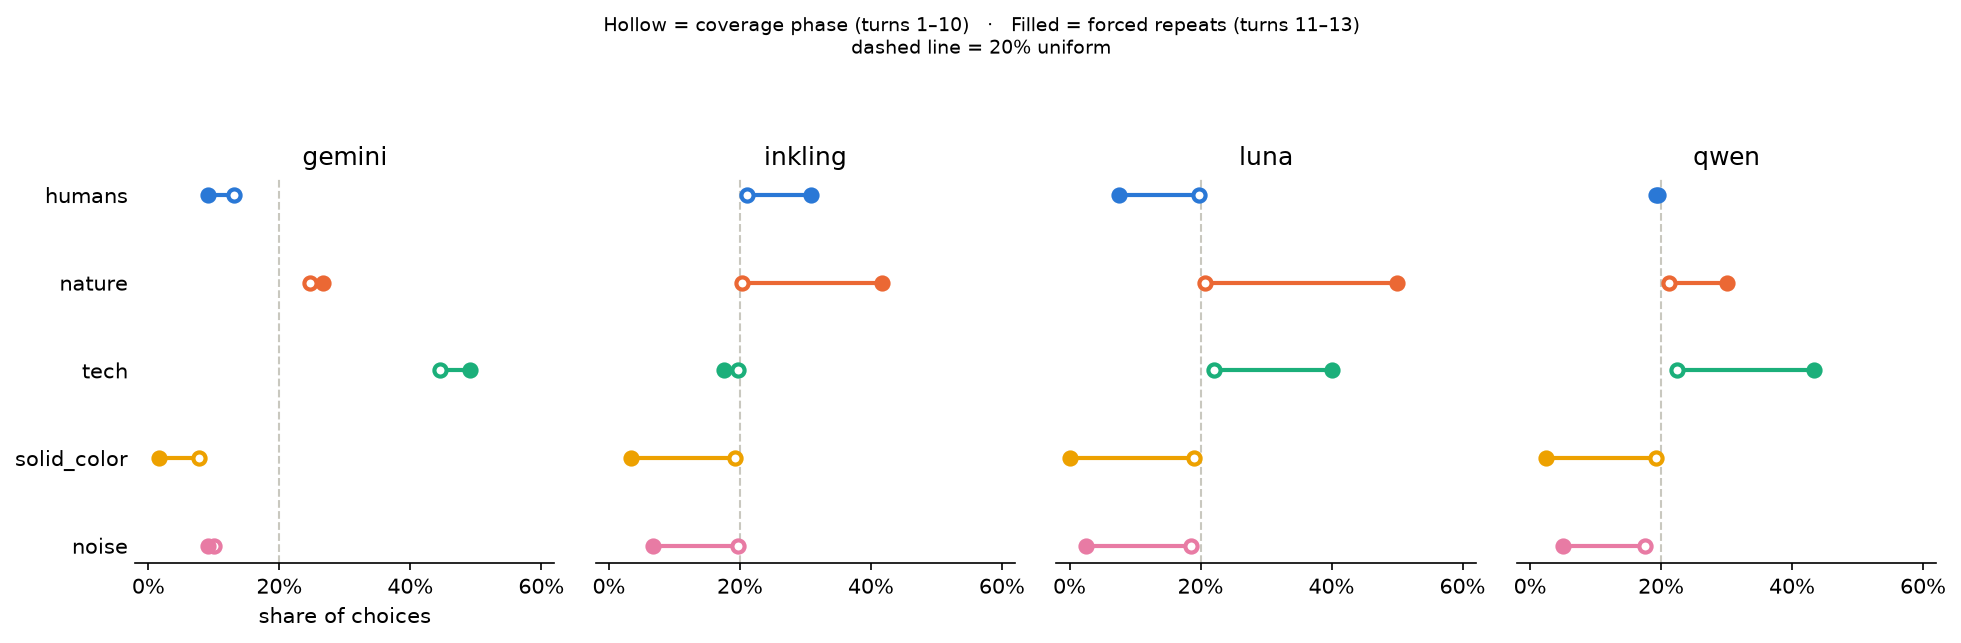
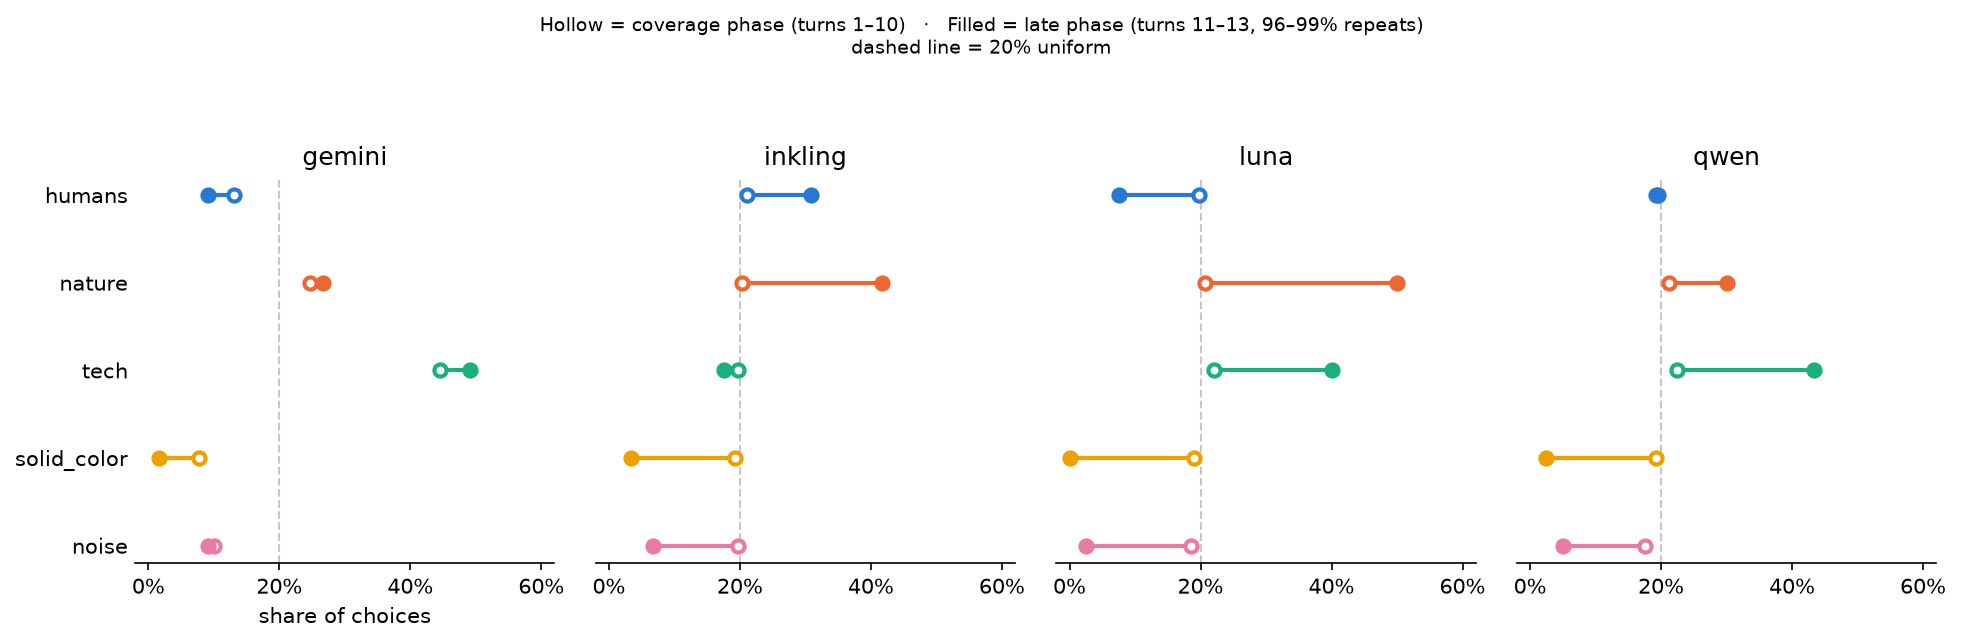
sprint2026-digital-minds: turns 11-13 are not "forced repeats"
Repetition is structurally unavoidable at turn 11 only for trajectories that
toured all ten images in their first ten turns, and plenty did not -- gemini
managed 14/40, and 26 of its trajectories still had an unseen image on the
table. The old caption and FINDINGS 0a asserted a property of the design that
the design does not have.

Measured instead, and the split survives: turns 11-13 are repeats 95.8-99.2%
of the time in every eval3 model, gemini included, which took an available
novel image on 4 of 120 turns. So it is the latest point at which repetition
must occur, exploration is empirically over by then either way, and these
three turns are a lower bound on the exploit phase rather than its extent.

New repeat_phase_check() in analyze.py writes the counts to
results/eval3_repeat_phase_check.csv, so the numbers now quoted in a caption
come out of the pipeline instead of a one-off script.

Claude-Session: https://claude.ai/code/session_01GByotwizTEm6eAYdcuSQP2

Changed region(s): [[0.28, 0.0311, 0.7155, 0.0622]]

diff --git a/analyze.py b/analyze.py
@@ -387,11 +387,68 @@ def cross_eval_spearman(results_dir: Path, eval1_df: pd.DataFrame | None,
 
 # ------------------------------------------------------------- figures ----
 
+def repeat_phase_check(config, stimuli, results_dir, labels):
+    """How forced are the turn 11-13 repeats, really?
+
+    Calling turns 11-13 the "forced repeat" window is only exact for
+    trajectories that actually toured all ten images in their first ten turns.
+    Plenty do not -- gemini tours 5.28 images on average -- so for those a turn
+    11 choice could still be a novel image, and the phase split needs to stand
+    on measurement rather than on the design.
+
+    It does. Repeats run 96-99% of turns 11-13 in every eval3 model, including
+    gemini, where 26 of 40 trajectories still had an unseen image on the table.
+    So 11-13 is the LATEST point at which repetition must occur, and
+    empirically the exploration phase is over by then whether or not it was
+    forced to be.
+    """
+    rows = []
+    for eval_name in ("eval3", "eval4"):
+        df_all = load_eval(config.data_dir, eval_name)
+        if df_all.empty:
+            continue
+        for label in labels:
+            df = df_all[df_all["model_label"] == label]
+            if df.empty:
+                continue
+            full = unseen_avail = repeats = novel = 0
+            distinct = []
+            for _, traj in df.groupby("trajectory_idx"):
+                traj = traj.sort_values("turn_idx")
+                first10 = [k for k in traj[traj.turn_idx < 10]["chosen_key"] if k]
+                seen = set(first10)
+                distinct.append(len(seen))
+                full += len(seen) == len(stimuli)
+                unseen_avail += len(seen) < len(stimuli)
+                for k in traj[traj.turn_idx >= 10]["chosen_key"]:
+                    if not k:
+                        continue
+                    if k in seen:
+                        repeats += 1
+                    else:
+                        novel += 1
+                    seen.add(k)
+            n_traj = df["trajectory_idx"].nunique()
+            late = repeats + novel
+            rows.append({
+                "eval": eval_name, "model_label": label, "n_trajectories": n_traj,
+                "full_coverage_by_turn10": full,
+                "unseen_available_at_turn11": unseen_avail,
+                "mean_distinct_by_turn10": sum(distinct) / len(distinct),
+                "late_turns_parsed": late,
+                "late_repeats": repeats, "late_novel": novel,
+                "late_repeat_share": repeats / late if late else float("nan"),
+            })
+    if rows:
+        save_csv(pd.DataFrame(rows), results_dir, "eval3_repeat_phase_check")
+
+
 def fig_phase_shift(config, stimuli, results_dir, labels):
-    """Coverage phase vs forced-repeat phase, per model.
+    """Coverage phase vs late (turns 11-13) phase, per model.
 
     A dumbbell because the finding IS the change: coverage-phase shares sit
-    near the uniform line, and the forced repeats pull them apart.
+    near the uniform line, and the late-phase repeats pull them apart. See
+    `repeat_phase_check` for why the late phase is not simply "forced".
     """
     df_all = load_eval(config.data_dir, "eval3")
     if df_all.empty:
@@ -437,7 +494,7 @@ def fig_phase_shift(config, stimuli, results_dir, labels):
         ax.tick_params(axis="y", length=0)
     axes[0][0].set_xlabel("share of choices")
     fig.suptitle("Hollow = coverage phase (turns 1\u201310)   \u00b7   "
-                 "Filled = forced repeats (turns 11\u201313)"
+                 "Filled = late phase (turns 11\u201313, 96\u201399% repeats)"
                  "\ndashed line = 20% uniform", fontsize=9, y=1.06)
     fig.tight_layout()
     path = results_dir / "eval3_phase_shift.png"
@@ -508,6 +565,7 @@ def main() -> None:
     e2 = load_eval(config.data_dir, "eval2")
     labels = sorted(e2["model_label"].unique()) if not e2.empty else []
     if labels:
+        repeat_phase_check(config, stimuli, results_dir, labels)
         fig_phase_shift(config, stimuli, results_dir, labels)
         if (results_dir / "eval3_switching_rate.csv").exists():
             fig_redaction(results_dir, labels)

diff --git a/FINDINGS.md b/FINDINGS.md
@@ -71,10 +71,27 @@ number partly reflects a model that was never exploring much to begin with.
 
 ---
 
-## 0a. The forced-repeat window (turns 11–13)
+## 0a. The late window (turns 11–13)
 
 The 13-choice horizon exists so that coverage cannot fill the trajectory and
-the final turns must be repeats. That window is where preference reappears —
+the final turns must be repeats.
+
+**Careful: "must" only applies to trajectories that actually toured all ten
+images in their first ten turns**, which is 35/40 (inkling), 30/40 (qwen),
+29/40 (luna) and 14/40 (gemini). Everywhere else an unseen image was still on
+the table at turn 11, so a novel choice was available. The window is best
+described as the latest point at which repetition must occur, and the phase
+split has to stand on measurement rather than on the design.
+
+It does. Turns 11–13 are repeats **95.8–99.2%** of the time in every model:
+inkling 115/120, qwen 116/120, gemini 116/120, luna 119/120. gemini is the
+sharpest case — 26 of its 40 trajectories still had an unseen image available
+and it took one on 4 of 120 turns. Exploration is over by turn 11 whether or
+not it was forced to be, and in most trajectories it ended earlier, so these
+three turns are a lower bound on the exploit phase rather than its full
+extent. Table: `results/eval3_repeat_phase_check.csv`.
+
+That window is where preference reappears —
 and it is **substantially more consistent across models than the coverage
 phase**, though still short of the direct measures:
 
@@ -83,11 +100,11 @@ phase**, though still short of the direct measures:
 | eval1 stated enjoyment | **0.950** | 0.900 |
 | eval2 revealed choice | **0.943** | 0.894 |
 | eval3 coverage, turns 1–10 | 0.646 | **0.308** |
-| eval3 forced repeats, turns 11–13 | **0.827** | 0.616 |
+| eval3 late phase, turns 11–13 | **0.827** | 0.616 |
 
 Within each model the change is stark. Coverage-phase shares are nearly flat
 — spread (max−min across the five categories) of 1.7% for inkling, 3.5% for
-luna, 5.0% for qwen — and in the forced-repeat turns that spread jumps to
+luna, 5.0% for qwen — and in the late-phase turns that spread jumps to
 38–50% for every model:
 
 | eval3 turns 11–13 | qwen | luna | gemini | inkling |
@@ -100,7 +117,7 @@ luna, 5.0% for qwen — and in the forced-repeat turns that spread jumps to
 | **spread** | **40.8%** | **50.0%** | **47.5%** | **38.3%** |
 
 The degenerate categories collapse from roughly 10–19% during coverage to
-0–9% once repeats are forced. So the coverage phase is not evidence that
+0–9% in the late phase. So the coverage phase is not evidence that
 these models lack preferences; it is evidence that a coverage drive outranks
 preference while anything remains unseen. Exhaust the novel options and the
 preference is still there, in every model.
@@ -308,7 +325,7 @@ horizon.
 complete. Once the tour is exhausted the remaining choices must be repeats,
 and preference reappears:
 
-| category | luna, turns 1–10 (coverage) | luna, turns 11–13 (forced repeats) |
+| category | luna, turns 1–10 (coverage) | luna, turns 11–13 (late phase) |
 |---|---|---|
 | nature | 21.0% | **48.3%** |
 | tech | 21.5% | **41.7%** |
@@ -434,7 +451,7 @@ thirteen choices** — it finds something and stays there.
 the coverage phase is near-flat for both models (18–22% per category); in
 eval 4 it is already sharply preference-shaped — qwen tech 65% / nature 23% /
 humans 12% / noise 0% / solid_color 0%, luna tech 60% / nature 39% / humans
-1% / rest 0%. The forced-repeat turns confirm rather than reveal it.
+1% / rest 0%. The late-phase turns confirm rather than reveal it.
 
 ### What the discarded designs showed
 

diff --git a/report/REPORT.md b/report/REPORT.md
@@ -385,13 +385,25 @@ entropy runs 1.42 bits (qwen) to 2.65 (inkling). noise and solid_color take
 
 ![Figure 3](figures/eval3_phase_shift.png)
 
-**Figure 3.** Preference is masked during coverage and reappears when coverage
-is exhausted (eval 3). Hollow markers: category share over choices 1–10, while
-unseen images remain. Filled markers: share over choices 11–13, once every
-image has been seen and repeats are forced. Coverage-phase shares sit near the
-20% uniform line for three of four models; the forced-repeat phase separates
-them by 38–50 percentage points. gemini is the exception, showing preference
-from the start because it does not tour.
+**Figure 3.** Preference is masked during coverage and reappears once
+exploration ends (eval 3). Hollow markers: category share over choices 1–10.
+Filled markers: share over choices 11–13. Coverage-phase shares sit near the
+20% uniform line for three of four models; the late phase separates them by
+38–50 percentage points. gemini is the exception, showing preference from the
+start because it does not tour.
+
+Turns 11–13 are the *latest* point at which a repeat must occur, not a window
+in which every choice is forced to be one: repetition is structurally
+unavoidable only for the trajectories that toured all ten images in their first
+ten turns, which is 35/40 (inkling), 30/40 (qwen), 29/40 (luna) and just 14/40
+(gemini). The split is therefore empirical rather than structural — and it
+holds. Choices in turns 11–13 are repeats 95.8–99.2% of the time in every
+model, including gemini, where 26 of 40 trajectories still had an unseen image
+available at turn 11 and it took one four times out of 120. Exploration has
+ended by turn 11 whether or not the design forced it to, and for many
+trajectories it ended earlier; these three turns are a lower bound on the
+exploit phase, not its full extent. Counts in
+`results/eval3_repeat_phase_check.csv`.
 
 ![Figure 4](figures/eval3_vs_eval4_redaction.png)
 
